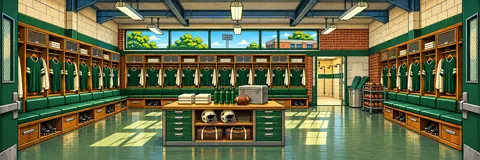
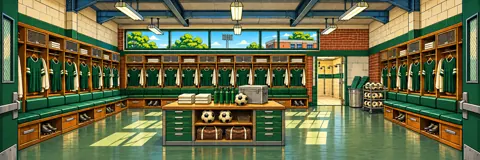
Redraw sticker club locker equipment

diff --git a/spec/tasks/done/T1053.redraw-sticker-locker-ten.md b/spec/tasks/done/T1053.redraw-sticker-locker-ten.md
@@ -1,12 +1,12 @@
 # T1053 Redraw two Sticker Club stage-10 locker rooms
-> st:todo | ssot:WEB-72 WEB-91 ECON-32 ARCH-30 ARCH-32 SAVE-10 | base:WEB@231 ECON@68 ARCH@53 SAVE@75 | dep:- | touches:apps/web/design/sticker-club/stadium-large-v1 apps/web/public/art/sticker-club | lane:- | explore:- | run:codex/gpt-6.1-terra@low
+> st:done@261124 | ssot:WEB-72 WEB-91 ECON-32 ARCH-30 ARCH-32 SAVE-10 | base:WEB@231 ECON@68 ARCH@53 SAVE@75 | dep:- | touches:apps/web/design/sticker-club/stadium-large-v1 apps/web/public/art/sticker-club | lane:- | explore:- | run:codex/gpt-6.1-terra@low
 
 ## goal
 Replace the heritage and terraces Sticker Club locker-10 artwork with period-appropriate association-football scenes that fit the existing pack.
 
 ## acceptance
-- [ ] Deterministic asset checks (worker, unit). Validate both source/deployment sets through the existing Sticker Club verifier. Keep the same slots, 3:1 source composition, 960×320 and 480×160 WebP variants, and the current `FACILITY_ENCODING` byte limits. The two scene jobs' inventory and hashes match their source and output. Run `vibe check --tier task` once after the edits and before the commit.
-- [ ] Computer-use handoff (host, integration, T1053-AC2). Hand off to fs24-sticker-locker-art for the shared candidate. This explicit handoff is the task's done condition. The unit records `not-run` with the host as owner and a null candidate until the fixed candidate can be observed.
+- [v] Deterministic asset checks (worker, unit). Validate both source/deployment sets through the existing Sticker Club verifier. Keep the same slots, 3:1 source composition, 960×320 and 480×160 WebP variants, and the current `FACILITY_ENCODING` byte limits. The two scene jobs' inventory and hashes match their source and output. Run `vibe check --tier task` once after the edits and before the commit.
+- [v] Computer-use handoff (host, integration, T1053-AC2). Hand off to fs24-sticker-locker-art for the shared candidate. This explicit handoff is the task's done condition. The unit records `not-run` with the host as owner and a null candidate until the fixed candidate can be observed.
   - Open completed stadium-step-10 careers from the heritage and terraces eras on the shared candidate. Select Sticker Club and open 팀 › 1군 at 390×844 for each.
   - Expect the era-specific locker room to load at each stop. The kit table shows recognizable association-football equipment and is clear of American-football helmets. The room retains its flat cartoon style and readable composition. Record each era and screenshot for the candidate.
   - Use `replaces: []` for this visual criterion. The two scenes have no existing E2E visual assertion. Asset decoding is the separate deterministic check.
@@ -17,3 +17,8 @@ Replace the heritage and terraces Sticker Club locker-10 artwork with period-app
 - The host syncs main and runs `pnpm run release:prepare` before the shared candidate is ready and verified under SAVE-10.
 
 ## result
+- outcome: Redrew both locker scenes with built-in image edits; retained era composition and replaced helmets with association football equipment. Full WebPs: 78032/81254 bytes; small: 22640/23768 bytes.
+- at: a15e234f1ab6f116cb769d6194a1213e1b4814ab (verified working tree 0cb24fe92eacfd44bb1d1a25584ba6563c62b6ec)
+- verified: Sticker Club verifier decoded 36 unique images; vibe check --tier task passed typecheck, lint, format, i18n and affected-units (check-fef8d622).
+- limits: Shared presentation validation, build, integration and full batch deferred to host; Chromium browser coverage in CI.
+- agent-acceptance: T1053-AC2 not-run; fs24-sticker-locker-art host owns shared candidate visual check, candidate null.

diff --git a/spec/STATE.md b/spec/STATE.md
@@ -68,7 +68,6 @@
 ## tasks
 | id | title | ssot | dep | st |
 |---|---|---|---|---|
-| T1053 | Redraw two Sticker Club stage-10 locker rooms | WEB ECON ARCH SAVE | - | todo |
 | T1054 | Explain the highest ticket preset from its forecast | WEB ECON ARCH SAVE | - | todo |
 | T1055 | Align facility artwork alt text with the completed stage | WEB ECON ARCH SAVE | - | todo |
 | T1056 | Measure the sellout response on reference careers | ECON ARCH SAVE | - | todo |
@@ -87,7 +86,8 @@
 | np19-perf | 2 | 7 | 7 | 0 | 0 | 0 | 0 | 2026-11-18T19:20:21.325Z | [history](work/np19-perf.json) |
 
 ## next
-- gusta-implement-task T1053 T1054 T1055
+- gusta-implement-task T1056
+- gusta-implement-task T1054 T1055
 - fs24 (261124): T1039 tracks the two remaining Chromium failures. T1053–T1056 cover the stad20 follow-ups (reports/261120-stad20), T1057 fixes the preview Wasm MIME type, and T1058 profiles player-facing waits after T1039.
 - ovr20 (261120): season-close Club OVR landed as 0.8.20 (T1040 archive, T1041 past tables, 구단 성장 and generation champions); reports/261120-ovr20.
 - Save storage redesign (261119, owner): SQLite game database shared by web and app (ARCH r51, SAVE r72, WEB r224, KIT r11). Interim save fix T999–T1002 (no Brotli/CJK/per-save validation/packing, 256 MiB/1 GiB) lands first as its own patch; then T1003–T1018 and T1022 (record store, changed-row saves, slots, .haeram-save export/import, season backup, one playing tab, records out of memory, measurements). Start with `gusta-implement-task T999`.
